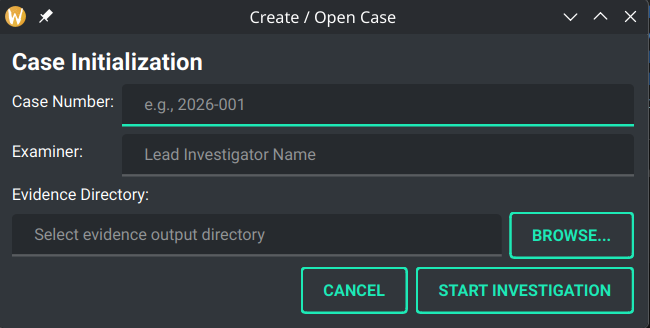
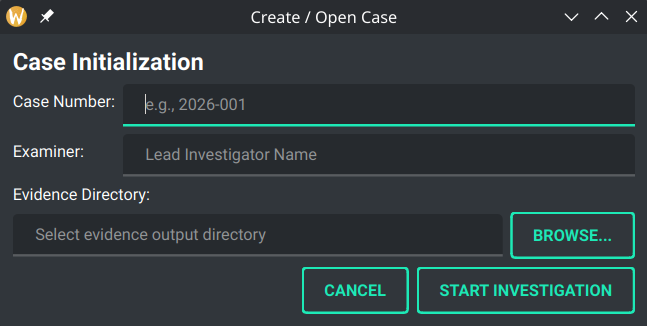
docs: update screenshots for v3.4.0 tabbed GUI
- main_ui_v320 → main_ui_v340 (new tabbed interface)
- Updated: case_wizard, disk_discovery, acquisition_running
- New: dead_acquisition_tab, verification_progress, triage_dashboard
- README: add new screenshots to Workflow Screens and Dashboard sections
- .gitignore: remove blanket screenshots/ ignore rule

diff --git a/README.md b/README.md
@@ -163,7 +163,7 @@ fx-acquire --dead \
 
 ## v3.4.0 — Tabbed GUI + Dead Acquisition
 
-![ForenXtract v3.4.0 GUI](screenshots/main_ui_v320.png)
+![ForenXtract v3.4.0 GUI](screenshots/main_ui_v340.png)
 
 The GUI is now organized into a **QTabWidget** with two acquisition modes:
 
@@ -182,9 +182,13 @@ Shared sections below the tabs:
 
 ### Workflow Screens
 
-| Case Wizard | Disk Discovery | Acquisition Running |
-|:-----------:|:--------------:|:-------------------:|
-| ![Case Wizard](screenshots/case_wizard.png) | ![Disk Discovery](screenshots/disk_discovery.png) | ![Acquisition](screenshots/acquisition_running.png) |
+| Case Wizard | Disk Discovery | Dead Acquisition Tab |
+|:-----------:|:--------------:|:--------------------:|
+| ![Case Wizard](screenshots/case_wizard.png) | ![Disk Discovery](screenshots/disk_discovery.png) | ![Dead Acquisition](screenshots/dead_acquisition_tab.png) |
+
+| Acquisition Running | Verification Progress |
+|:-------------------:|:---------------------:|
+| ![Acquisition](screenshots/acquisition_running.png) | ![Verification](screenshots/verification_progress.png) |
 
 ### CLI & Reports
 
@@ -386,6 +390,8 @@ Volatile evidence collected **before** acquisition. All operations are strictly 
 # Triage Data Dashboard
 
 **v3.4.0 — Interactive Triage Visualization**
+
+![Triage Dashboard](screenshots/triage_dashboard.png)
 
 If triage is enabled, ForenXtract automatically generates an **interactive HTML dashboard** with real-time visualizations:
 
